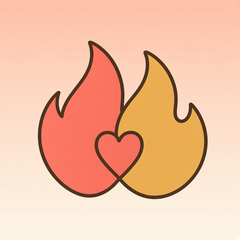
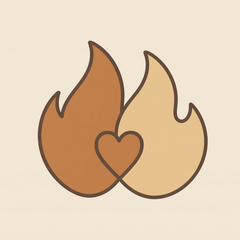
Remove the reviews screen; website in the Pact palette
- Onboarding: 'Help us help more couples' (placeholder reviews + rating ask) removed;
  the 90-day plan goes straight to notifications. Step counter: 20.
- Website (docs/): cream, espresso, caramel; new app icon.

Claude-Session: https://claude.ai/code/session_01RemuYTx6ytqjfRAKNgR4rv

diff --git a/App/Sources/Model/OnboardingCopy.swift b/App/Sources/Model/OnboardingCopy.swift
@@ -1,7 +1,7 @@
 import Foundation
 
 // Everything the pre-paywall onboarding screens SAY lives here, so copy can be edited in one place:
-// the mirror lines and tiny wins, the couple score, the FAQ and the testimonials.
+// the mirror lines and tiny wins, the couple score and the FAQ.
 
 // MARK: - Mirror (echoes their answers)
 
@@ -172,31 +172,4 @@ enum OnboardingFAQ {
         FAQItem(question: "Is The 75 included?",
                 answer: "Yes. The 75 is our hardest challenge: 75 days, photo proof and a bet, no saves. Start it, or any shorter challenge, whenever you're both ready."),
     ]
-}
-
-// MARK: - Testimonials (placeholders only: replace with real reviews before release)
-
-struct Testimonial: Identifiable {
-    var quote: String
-    var name: String
-    /// Placeholders are shown in DEBUG builds only, so nothing fake ever ships.
-    var isPlaceholder: Bool
-    var id: String { quote + name }
-}
-
-enum Testimonials {
-    /// Edit here. Set `isPlaceholder: false` only for real reviews you have permission to use.
-    static let all: [Testimonial] = [
-        Testimonial(quote: "Placeholder: replace with a real review.", name: "Placeholder name", isPlaceholder: true),
-        Testimonial(quote: "Placeholder: replace with a real review.", name: "Placeholder name", isPlaceholder: true),
-        Testimonial(quote: "Placeholder: replace with a real review.", name: "Placeholder name", isPlaceholder: true),
-    ]
-
-    static var shown: [Testimonial] {
-        #if DEBUG
-        return all
-        #else
-        return all.filter { !$0.isPlaceholder }
-        #endif
-    }
 }

diff --git a/App/Sources/Model/Drafts.swift b/App/Sources/Model/Drafts.swift
@@ -7,7 +7,8 @@ struct OnboardingDraft: Codable, Equatable {
              partnerGoals, handBack, together, longDistance, goals, personal, fitness, wakeUp, quit, mirror, level, building, planReveal,
              stakes,  // no longer shown: daily habits have no stakes (bets come with challenges)
              // Between the plan review and the paywall: sign, score, the 90-day plan + FAQ, reviews, notifications.
-             signPact, coupleScore, ninetyDays, socialProof, notifySetup
+             signPact, coupleScore, ninetyDays, notifySetup,
+             socialProof  // removed (the reviews screen); kept so old saved progress still loads
         // Without a step counter (the paywall has its own pages: outcome, trial, plans):
         case paywall, invite, notifications, android
     }
@@ -60,7 +61,7 @@ struct OnboardingDraft: Codable, Equatable {
     static let countedSteps: [Step] = [.hook, .character, .names, .partnerIPhone, .togetherNow,
                                        .together, .longDistance, .goals, .personal,
                                        .fitness, .wakeUp, .quit, .mirror, .level, .building, .planReveal,
-                                       .signPact, .coupleScore, .ninetyDays, .socialProof, .notifySetup]
+                                       .signPact, .coupleScore, .ninetyDays, .notifySetup]
 
     /// The counted steps. Branch-only steps (handing the phone to the partner and B's answers there,
     /// the Android waitlist) never count and show no counter, so the total never jumps mid-flow.

diff --git a/docs/style.css b/docs/style.css
@@ -1,16 +1,17 @@
 :root {
-  --ivory: #FFF6F0; --peach: #FDE4D8; --coral: #C9452A; --gold: #E8A54B;
-  --text: #2A1814; --text2: #4A322B; --border: #F1DDD2; --card: #FFFFFF;
+  /* The Pact palette (docs/BRAND.md) */
+  --ivory: #F7F1E8; --peach: #F0E6D6; --coral: #382A22; --gold: #C2804C;
+  --text: #382A22; --text2: #6B5A4E; --border: #E8DDCC; --card: #FFFFFF;
 }
 @media (prefers-color-scheme: dark) {
-  :root { --ivory: #1C1412; --peach: #3A2620; --text: #F7EDE8; --text2: #D9C4BA; --border: #4A3530; --card: #261B18; --coral: #F07A5E; }
+  :root { --ivory: #1E1814; --peach: #2E2520; --text: #F7F1E8; --text2: #D8C8B6; --border: #45382F; --card: #28201B; --coral: #E6C28E; }
 }
 * { box-sizing: border-box; }
 body { margin: 0; background: var(--ivory); color: var(--text);
   font: 17px/1.6 -apple-system, BlinkMacSystemFont, "Segoe UI", Helvetica, Arial, sans-serif; }
 main { max-width: 760px; margin: 0 auto; padding: 32px 20px 64px; }
 .brand { margin: 0 0 8px; font-weight: 800; font-size: 20px; }
-.brand a { color: var(--coral); text-decoration: none; }
+.brand a { color: var(--gold); text-decoration: none; }
 h1 { font-size: 34px; line-height: 1.2; margin: 8px 0 4px; }
 h2 { font-size: 22px; margin: 36px 0 8px; }
 h3 { font-size: 18px; margin: 22px 0 4px; }

diff --git a/App/Sources/Screens/Onboarding/OnboardingFlow.swift b/App/Sources/Screens/Onboarding/OnboardingFlow.swift
@@ -74,8 +74,9 @@ struct OnboardingFlow: View {
         // Between the plan review and the paywall.
         case .signPact: SignPactView(next: { go(.coupleScore) }, back: back)
         case .coupleScore: CoupleScoreView(next: { go(.ninetyDays) }, back: back)
-        case .ninetyDays: NinetyDayPlanView(next: { go(.socialProof) }, back: back)
-        case .socialProof: SocialProofView(next: { go(.notifySetup) }, back: back)
+        case .ninetyDays: NinetyDayPlanView(next: { go(.notifySetup) }, back: back)
+        // The reviews screen was removed: old saved progress on it continues at notifications.
+        case .socialProof: NotificationSetupView(next: { go(.paywall) }, back: { go(.ninetyDays, forward: false) })
         case .notifySetup: NotificationSetupView(next: { go(.paywall) }, back: back)
         // Old drafts saved on the removed stakes step continue at the sign step.
         case .stakes: SignPactView(next: { go(.coupleScore) }, back: { go(.planReveal, forward: false) })

diff --git a/docs/TEST_CHECKLIST.md b/docs/TEST_CHECKLIST.md
@@ -9,7 +9,7 @@ Old onboarding progress from the 75-only version is discarded (start from the ho
 
 ## 1. Launch and onboarding
 - [ ] Hook: "Level up as a couple." with the one-line pitch; the couple breathes gently (try Reduce Motion: still).
-- [ ] Step counter reads "of 21" on every counted step and never jumps.
+- [ ] Step counter reads "of 20" on every counted step and never jumps.
 - [ ] Goals: three groups (Body, Looks, Mind & money) with icons; Continue needs 2 picks.
 - [ ] "How big should your habits be?": Gentle / Steady (Most popular) / Hard mode.
 - [ ] "Anything personal?": type "Learn to speak chinese", tap Add → pill "Learn Chinese".
@@ -26,8 +26,6 @@ Old onboarding progress from the 75-only version is discarded (start from the ho
       ticks to the real 90-day projection (Forge, level 5), the button turns into Continue. Reduce Motion: jumps.
 - [ ] Your next 90 days: today's date highlighted + the next 6; edit a habit (pencil or tap the row), delete one
       (blocked below 4 habits or 2 photo habits, with the reason), "+ Add a habit" (up to 6). FAQ rows expand.
-- [ ] Help us help more couples: 3 cards marked PLACEHOLDER (DEBUG only; Release hides placeholders), the rating
-      prompt appears once.
 - [ ] Notifications: three toggles on; Continue shows the iOS prompt (not if all are off). No second ask after the invite.
 - [ ] Paywall: yearly preselected as "$3.33/mo, billed $39.99 yearly after 3 free days" with "SAVE 58%",
       monthly "€7.99/mo". × goes back to "Your next 90 days".
